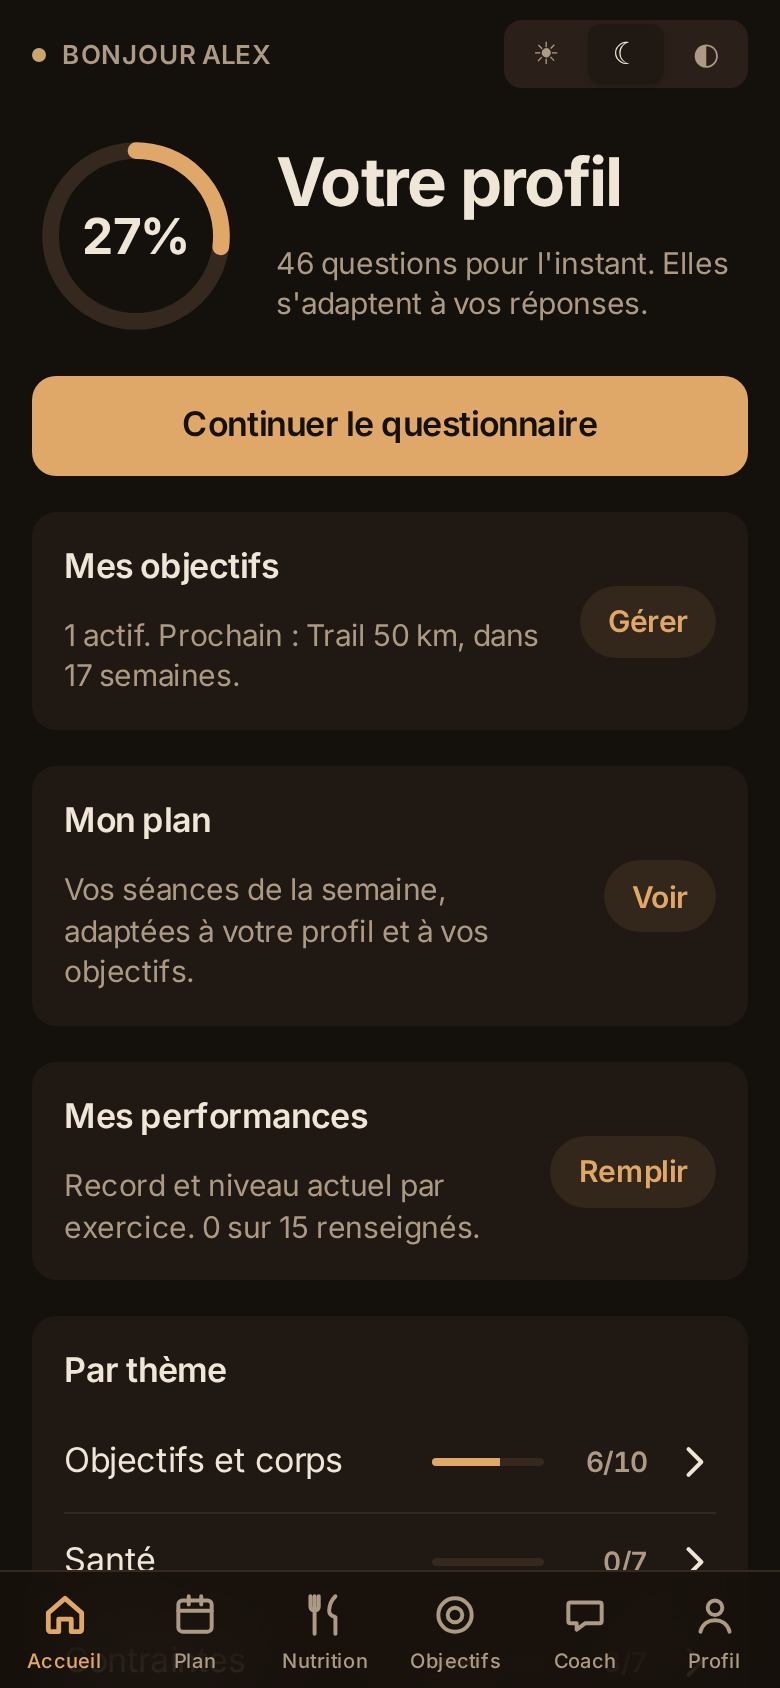
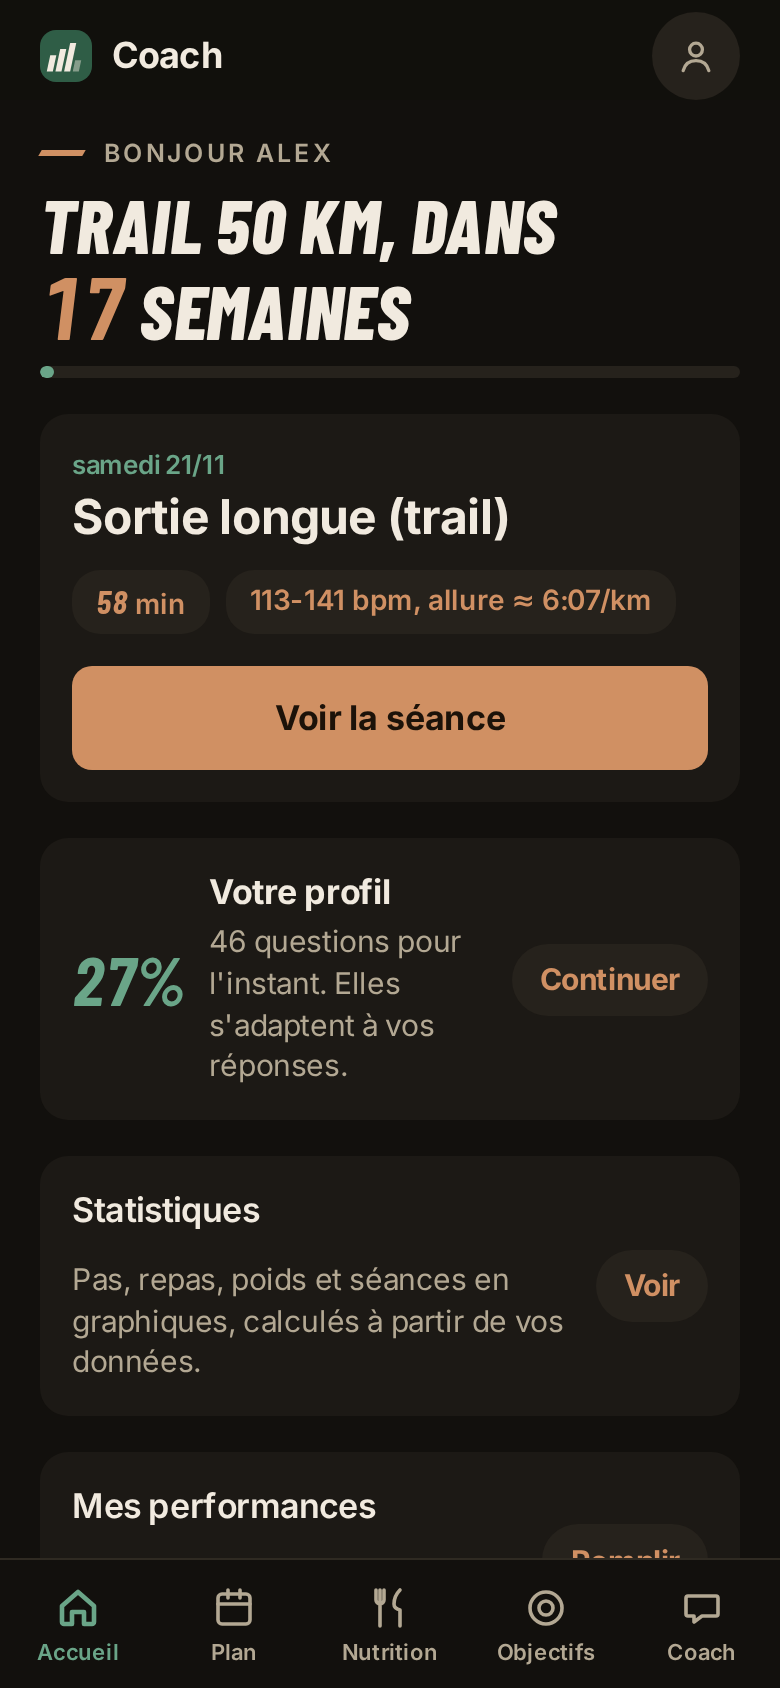
release: 0.2.0 (#128)
* release : version 0.2.0

* docs : captures du README refaites avec la nouvelle interface

diff --git a/scripts/screenshots.py b/scripts/screenshots.py
@@ -58,7 +58,9 @@ def run() -> None:
                 page.wait_for_selector(".tabbar")
                 tab(page, "Nutrition")
                 shot(page, "nutrition-light")
-                tab(page, "Profil")
+                tab(page, "Accueil")
+                page.locator(".avatar").first.click()  # le profil s'ouvre par la pastille ronde de l'accueil
+                page.wait_for_timeout(700)
                 shot(page, "profile-light")
             if theme == "dark":
                 tab(page, "Plan")

diff --git a/app/config.py b/app/config.py
@@ -8,7 +8,7 @@ from dataclasses import dataclass
 from pathlib import Path
 from urllib.parse import quote
 
-VERSION = "0.1.0"
+VERSION = "0.2.0"
 
 
 def env(name: str, default: str = "") -> str:

diff --git a/CHANGELOG.md b/CHANGELOG.md
@@ -3,7 +3,10 @@
 All notable changes are documented here. Format: [Keep a Changelog](https://keepachangelog.com/en/1.1.0/), versioning: [SemVer](https://semver.org/) (pre-1.0: minor versions may break).
 
 ## [Unreleased]
+
+## [0.2.0] — 2026-11-19
 ### Changed
+- README screenshots (`docs/img`) regenerated with the new interface; `scripts/screenshots.py` opens the profile through the round avatar.
 - The top bar of the main screens now stays visible while scrolling, and the diagonal copper band beside the home title is removed.
 - Header logo now shows the fir-green app icon instead of an empty gradient square.
 - UI refresh: new warm palette (dark `#12100d` / light `#f4efe6`, copper for actions, fir green for state), Barlow Condensed italic headings and figures (self-hosted, SIL OFL), slanted eyebrow marker, 14 px cards. The home screen leads with the goal countdown, a progress bar and the next session card; the tab bar has 5 entries and the profile opens from a round button at the top right of the home screen. Economy (monochrome) theme kept.

diff --git a/README.md b/README.md
@@ -80,7 +80,7 @@ docker compose up -d --build     # db → app → one-shot exercise import
 open http://127.0.0.1:8000       # the first account you create is the owner; registration then closes
 ```
 
-Prefer a ready-made image over building? Set `COACH_IMAGE=ghcr.io/ecg-rudy-glt/coach:0.1.0` in `.env` and run `docker compose pull && docker compose up -d` (images are published for every `vX.Y.Z` tag, `linux/amd64` and `linux/arm64`).
+Prefer a ready-made image over building? Set `COACH_IMAGE=ghcr.io/ecg-rudy-glt/coach:0.2.0` in `.env` and run `docker compose pull && docker compose up -d` (images are published for every `vX.Y.Z` tag, `linux/amd64` and `linux/arm64`).
 
 Add an AI coach (optional): put your key in `secrets/llm_api_key`, set `LLM_PROVIDER` in `.env`, then `docker compose up -d`. No key → the app runs fully, minus the coach, chat and meal-photo estimate.
 
